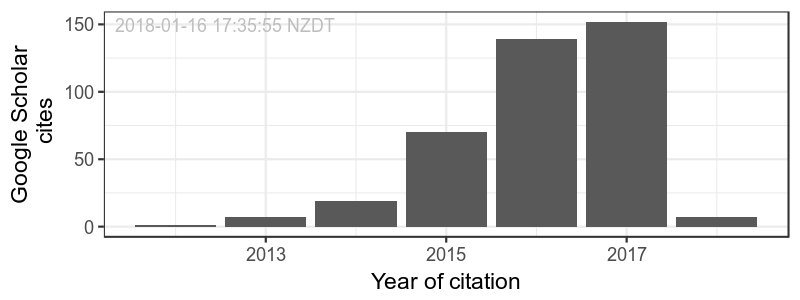
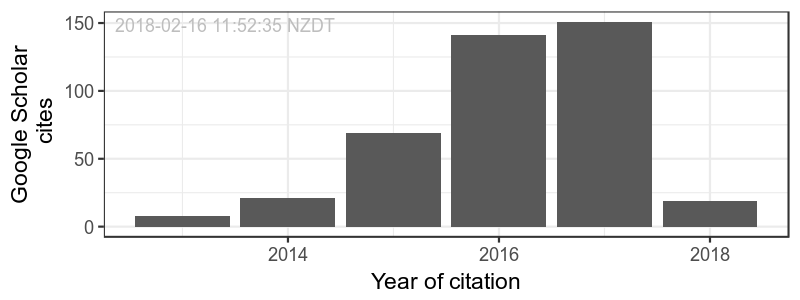
updated publications and metrics

diff --git a/index.md b/index.md
@@ -119,14 +119,17 @@ A course designed to walk Research Supervisors through the frameworks and pragma
 
 ## Publication Metrics
 
-* Journal articles: __28__	
+* Journal articles: __29__	
 * H-index: __11__
-* Citations: __399__
+* i10-index: __11__
+* Citations: __414__
 
 ## Publications
 
 <!-- ### Journals -->
 `2018`
+Lualhati RL, Albury CL, Maksemous N, Roos-Araujo D, Smith RA, **Benton MC**, Eccles DA, Lea RA, Sutherland HG, Haupt LM and Griffiths LR. (2018) Exome sequencing diagnoses X-linked moesin-associated immunodeficiency in a primary immunodeficiency case. *Frontiers in Immunology* 9
+
 Dunn P, Albury CL, Maksemous N, **Benton MC**, Sutherland HG, Smith RA, Haupt LM, and Griffiths LR. (2018) Next Generation Sequencing Methods for Diagnosis of Epilepsy Syndromes. *Frontiers in Genetics* (accepted 16th Janurary)
 
 Kho PF, Lea RA, **Benton MC**, Eccles DA, Haupt LM, Hewitt AW, Sherwin JC, Mackey DA, and Griffiths LR. (2018) Expression QTL analysis of glaucoma endophenotypes in the Norfolk Island isolate provides evidence that immune-related genes are associated with optic disc size. *Journal of Human Genetics* 63 [DOI:10.1038/s10038-017-0374-y]
